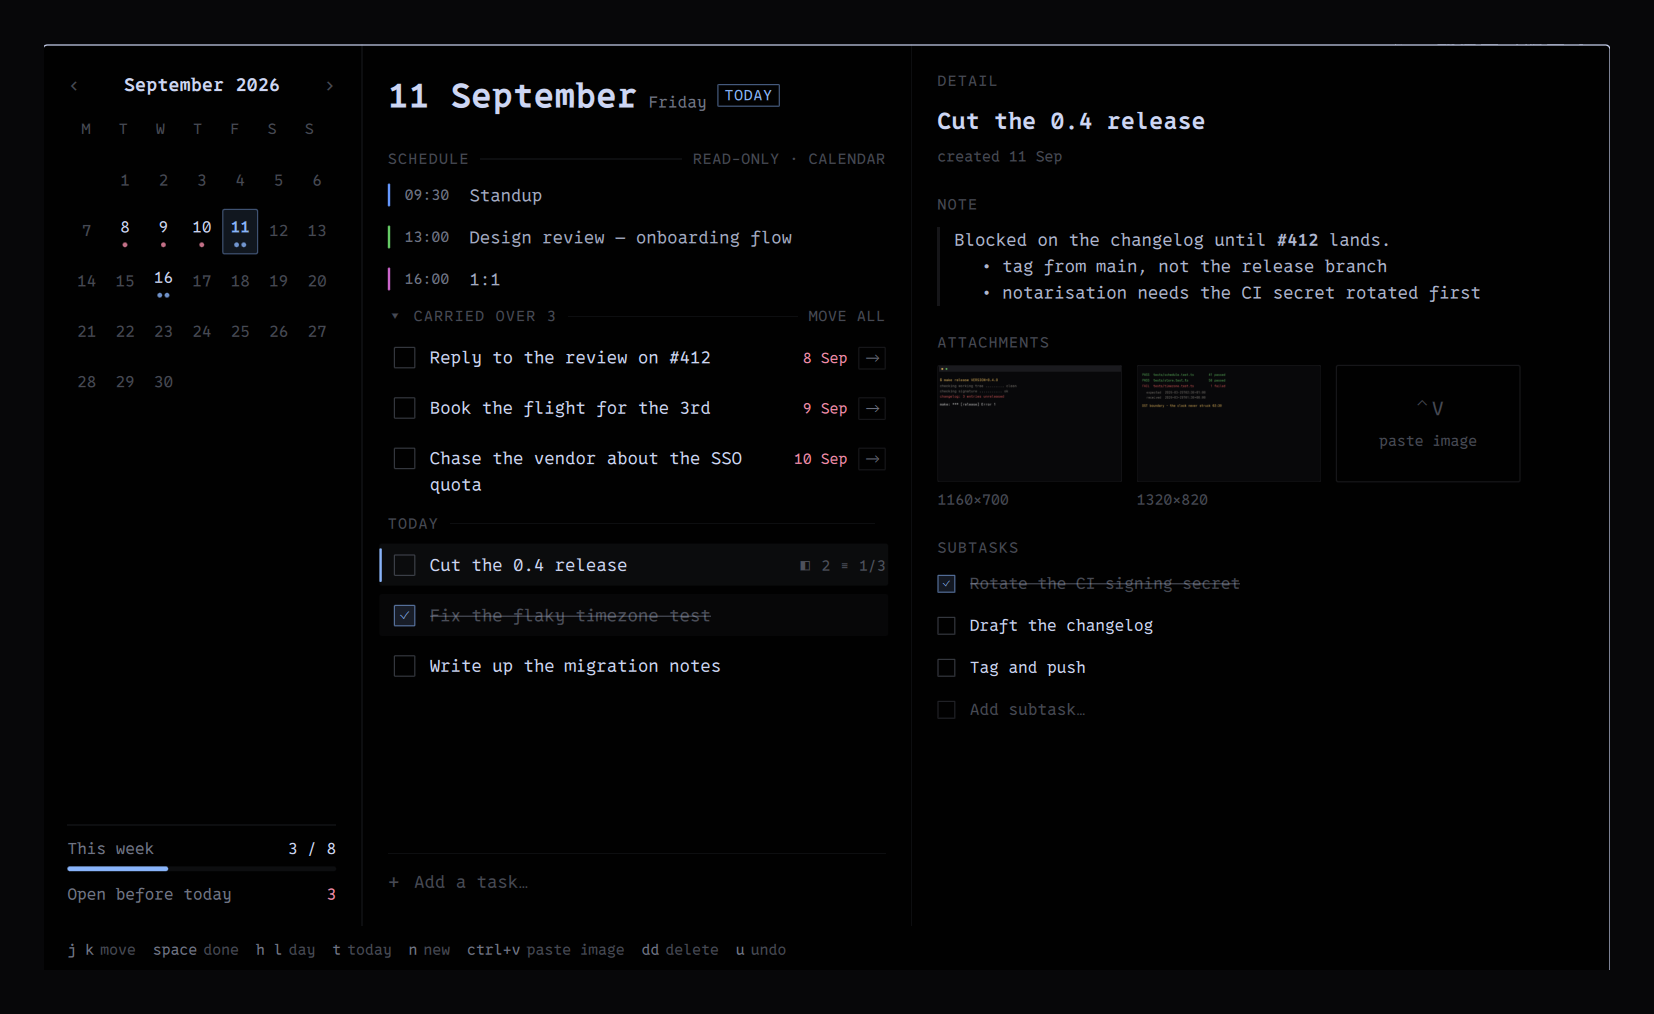
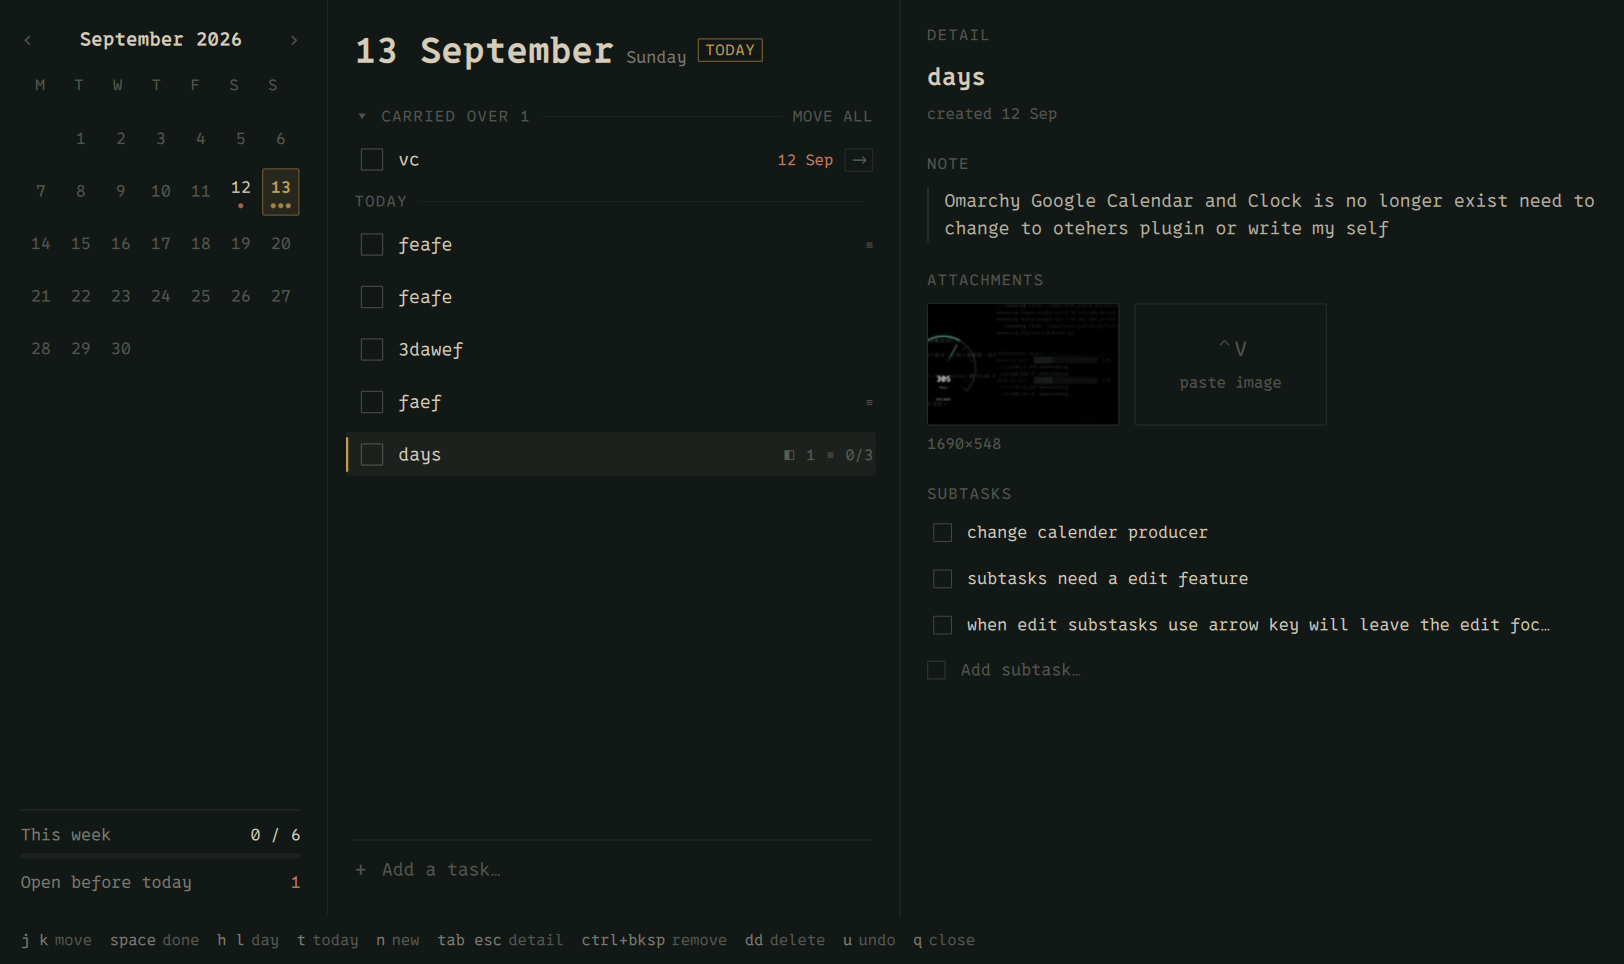
Spell out the backspace hint, and reshoot the preview
The footer said ctrl+⌫. The bar's font has no U+232B and substitutes a
glyph that reads as an infinity sign, so the one hint for the new remove
key was the one hint nobody could read.

The preview still showed the footer from before any of this, and none of
the detail pane's new focus states.

diff --git a/Overlay.qml b/Overlay.qml
@@ -839,7 +839,9 @@ Item {
               { k: "t", v: "today" },
               { k: "n", v: "new" },
               { k: "tab esc", v: "detail" },
-              { k: "ctrl+⌫", v: "remove" },
+              // Spelled out rather than ⌫: the bar's font has no U+232B and
+              // substitutes something that reads as an infinity sign.
+              { k: "ctrl+bksp", v: "remove" },
               { k: "dd", v: "delete" },
               { k: "u", v: "undo" },
               { k: "q", v: "close" }
